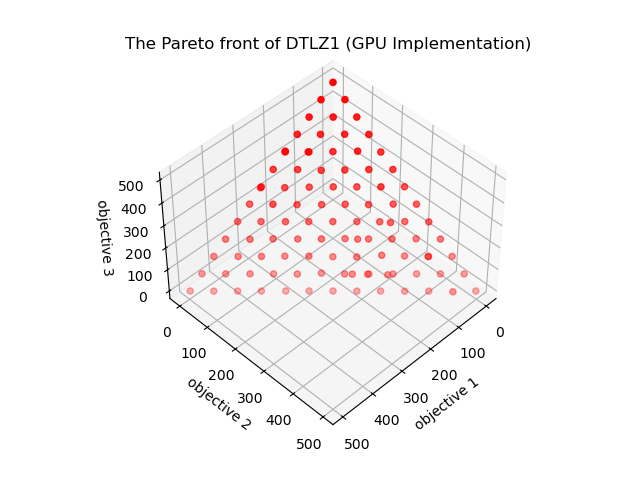
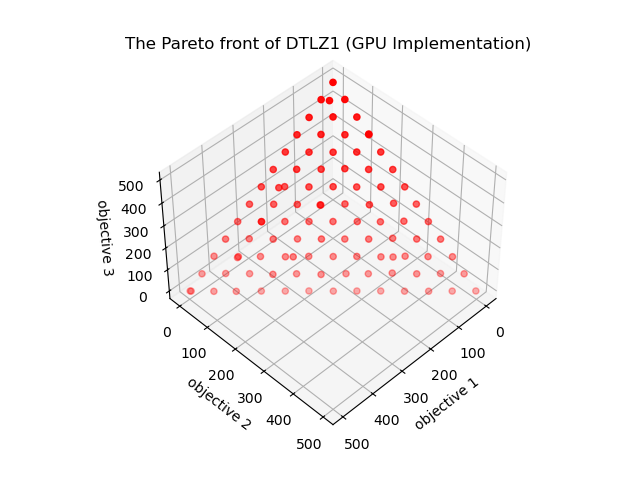
All sets comparison

diff --git a/experiments/experiment_update.py b/experiments/experiment_update.py
@@ -704,17 +704,29 @@ def main():
     
     print_msg("\nRunning NSGA-III CPU vs GPU comparison...", always_print=True)
     
-    # Select a subset of your datasets for comparison (first from each category)
+    # # Select a subset of your datasets for comparison (one from each category)
+    # comparison_datasets = []
+    # for file, folder in datasets_files:
+    #     file_path = os.path.join(data_dir, file)
+    #     if os.path.exists(file_path):
+    #         datasets = load_csv(file_path)
+    #         if datasets:
+    #             comparison_datasets.append(datasets)  # Add first dataset from each category
+    
+    # # To use all selected datasets (one from each category):
+    # compare_nsga_implementations(comparison_datasets)
+
+    # OR to include ALL datasets from all categories:
     comparison_datasets = []
     for file, folder in datasets_files:
         file_path = os.path.join(data_dir, file)
         if os.path.exists(file_path):
             datasets = load_csv(file_path)
             if datasets:
-                comparison_datasets.append(datasets[0])  # Add first dataset from each category
-    
+                comparison_datasets.extend(datasets)  # Add ALL datasets
+
     # Run comparison
-    compare_nsga_implementations(comparison_datasets[:3])  # Limit to 3 datasets for quicker testing
+    compare_nsga_implementations(comparison_datasets)  # Limit to 3 datasets for quicker testing
     
     print_msg("All experiments completed!", always_print=True)
 

diff --git a/README.md b/README.md
@@ -1,2 +1,127 @@
-# ALBD
-Mastering Complexity: Adaptive Active Learning Strategies for Different Data Dimensions
+# NSGA-III: CPU and GPU-Accelerated Implementation
+
+This repository contains an implementation of the NSGA-III (Non-dominated Sorting Genetic Algorithm III) algorithm with CPU parallel processing and GPU acceleration using Apple's Metal Performance Shaders.
+
+## Features
+
+- CPU implementation with parallel processing
+- GPU-accelerated implementation using Metal Performance Shaders
+- Comprehensive benchmarking tools
+- Performance visualization
+- Support for various dataset dimensions
+
+## Getting Started
+
+### Prerequisites
+
+- Python 3.8 or higher
+- NumPy, Pandas, Matplotlib, Seaborn
+- PyTorch (for GPU acceleration)
+- macOS with Metal support or compatible GPU system
+
+### Installation
+
+1. Clone the repository:
+
+```bash
+git clone https://github.com/Kii4ka/NSGA_III.git
+cd NSGA_III
+```
+
+2. Switch to the implementation branch for the final version:
+
+```bash
+git checkout framework_impl
+```
+
+### Setting Up Data
+
+1. Unzip the dataset files:
+
+```bash
+# Navigate to the data directory
+cd data
+# Unzip additional dimension files
+unzip add_dim.zip
+# Return to main directory
+cd ..
+```
+
+## Running Experiments
+
+### Extended Experiments
+
+To run the full suite of experiments with both CPU and GPU implementations:
+
+```bash
+python experiments/experiment_update.py
+```
+
+This will:
+- Process datasets across multiple categories
+- Run the NSGA-III algorithm with both CPU and GPU implementations
+- Generate performance metrics and comparisons
+- Output results to CSV files
+
+### Checking Results
+
+After running the experiments, you'll find:
+
+- nsga_performance.csv - Contains performance metrics for CPU vs GPU implementations
+- nsga_comparison_results.csv - Detailed comparison across different datasets
+- results directory - Individual experiment results by dataset category
+
+### Visualizing Results
+
+Generate performance comparison graphs:
+
+```bash
+python graph.py
+```
+
+This creates:
+- nsga_performance_bars.png - Bar charts showing time, memory usage, throughput, and speedup
+- gpu_time_breakdown.png - Pie chart showing GPU time allocation
+
+## Performance Metrics
+
+When examining results, look for:
+
+- **Execution Time**: Comparison between CPU and GPU implementations (ms)
+- **Memory Usage**: Memory footprint difference (MB)
+- **Throughput**: Operations per second (higher is better)
+- **Speedup**: Relative performance gain of GPU vs CPU (×)
+- **Memory Transfer**: Time spent transferring data to GPU (ms)
+
+## Example Output
+
+```
+==== NSGA-III Performance Comparison ====
+Implementation       | Time (ms)  | Speedup    | Memory (MB)  | Throughput     
+---------------------------------------------------------------------------
+CPU Parallel         | 249183.79  | 1.00      x | 108.45       | 30.10          
+GPU MPS              | 3942.46    | 63.21     x | 28.83        | 1902.37
+```
+
+This indicates the GPU implementation is approximately 63× faster while using only about 26% of the memory compared to the CPU implementation.
+
+## Troubleshooting
+
+If you encounter issues with duplicate output messages, ensure `QUIET_MODE` is properly set.
+
+For GPU-related errors, verify your system has proper Metal/GPU support by checking:
+
+```python
+import torch
+print(f"PyTorch MPS available: {torch.backends.mps.is_available()}")
+print(f"PyTorch MPS built: {torch.backends.mps.is_built()}")
+```
+
+## License
+
+This project is licensed under the MIT License - see the LICENSE file for details.
+
+## Acknowledgments
+
+- The NSGA-III algorithm was proposed by Deb and Jain (2014)
+- Implementation inspired by PyNSGA3 and other open source MOEA frameworks
